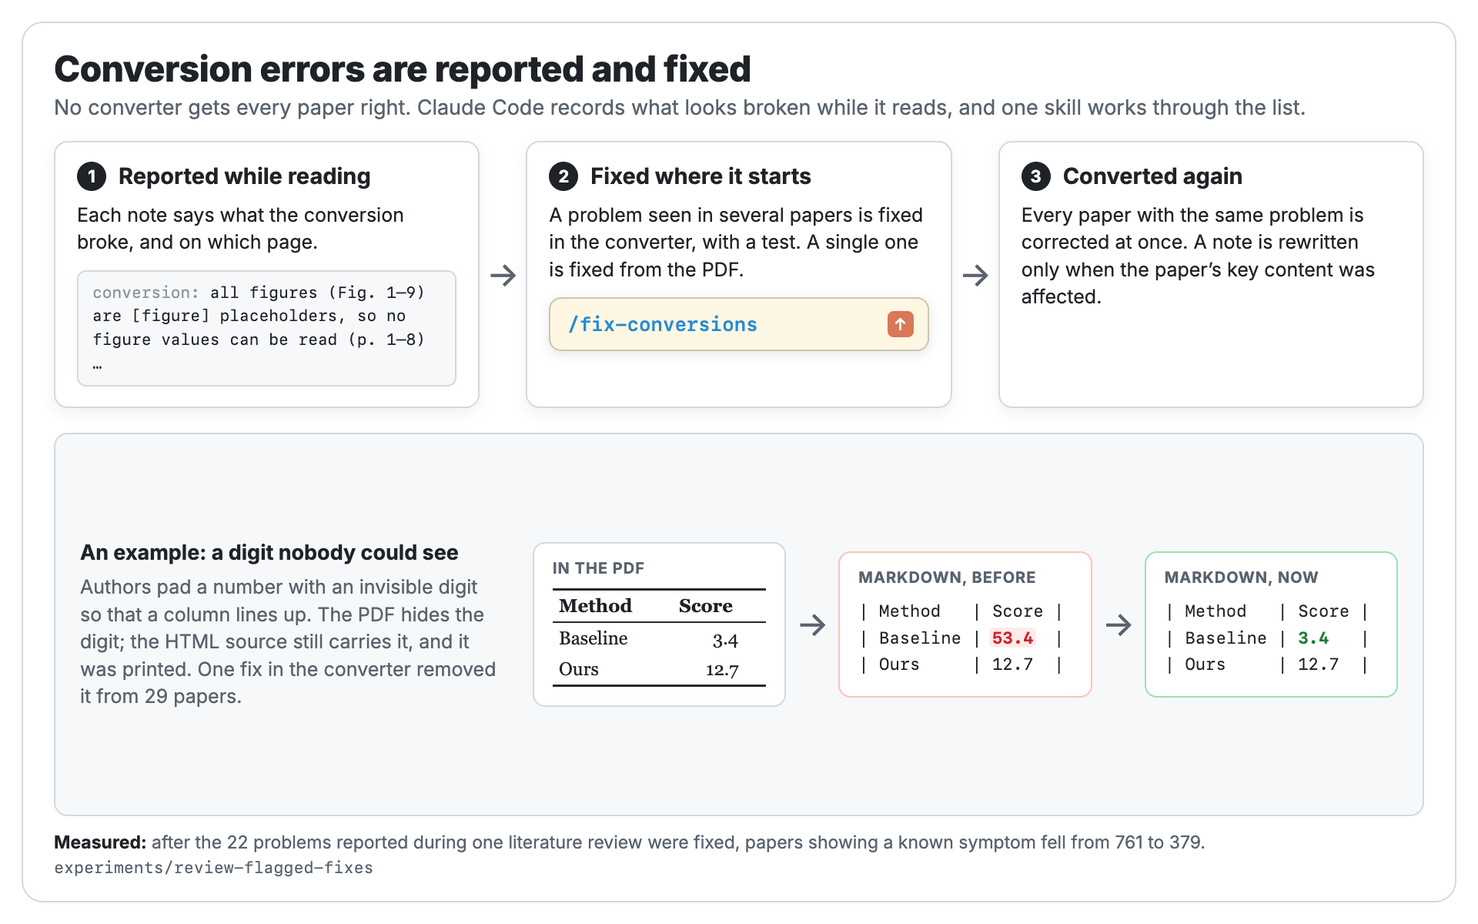
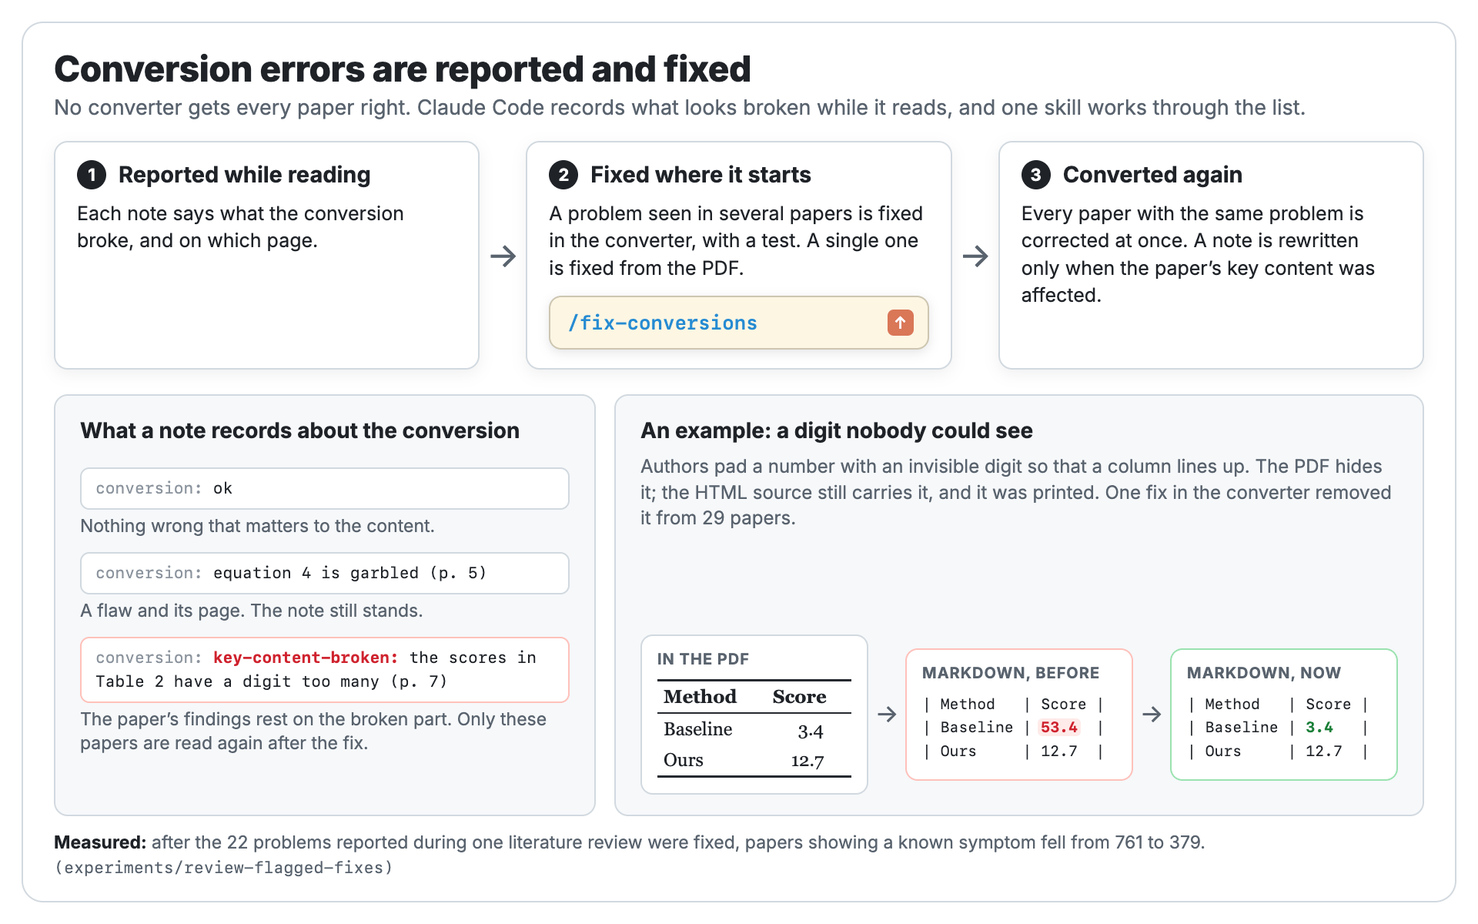
Redraw the README pictures around what the library does
- The first set led with experiments and internals; this one shows one function a picture, with a plain title, one sentence of why, and at most one measured line that names its experiment folder in brackets.
- Nine pictures: reading a paper in VS Code with Claude Code beside it, the Markdown conversion against the PDF and its extracted text, a quick look at a paper, adding a paper, the overview note, the literature review, finding missing papers and reorganising topics, fixing conversion errors, and six experiments as question, measurement and decision.
- The VS Code window is drawn after a screenshot of the example library, and the PDF content is real crops of the DPO paper (CC BY).
- paperlib info says what its numbers are: the arXiv date is labelled "submitted", citations read "N in total, N a year, N where the citing paper builds on this one", and a folder with one paper says "1 paper".
- README: "What the measurements ruled out" becomes "How it was designed", and the Skills table gains /paper-info.
- Some picture content is illustration and each HTML source says which: the overview note, the lists in the grow picture, the topic name in the review picture, two rows of the paper-info table, and the example conversion lines and extra table row in the fix-conversions picture.

diff --git a/assets/pictures/fix-conversions.html b/assets/pictures/fix-conversions.html
@@ -4,7 +4,8 @@
   and docs/design.md's decision of 2026-10-07. The conversion line is the opening of the one in
   Opus's note on the Gemma 3 Technical Report (experiments/reading-models/results/claude-opus-5-5/).
   The example and the line at the foot are experiments/review-flagged-fixes: a padding digit printed
-  in table cells of 29 papers (3.4 read as 53.4; the rest of the small table is an illustration), and papers showing a known symptom 761 to 379.
+  in table cells of 29 papers (3.4 read as 53.4; the rest of the small table is an illustration). The three conversion
+  lines in "What a note records" follow the form guide/reading-prompt.md asks for and are examples, and papers showing a known symptom 761 to 379.
   Render with assets/pictures/render.sh fix-conversions.
 -->
 <html lang="en">
@@ -16,22 +17,29 @@
 <style>
   .main { flex-direction: column; gap: 16px; }
   .steps { display: flex; align-items: stretch; flex: none; }
-  .step { flex: 1 1 0; min-width: 0; border: 1px solid var(--line); border-radius: 9px; background: #fff; padding: 12px 14px 13px; box-shadow: 0 3px 10px rgba(31, 35, 40, .07); }
+  .step { flex: 1 1 0; min-width: 0; border: 1px solid var(--line); border-radius: 9px; background: #fff; padding: 11px 14px 12px; box-shadow: 0 3px 10px rgba(31, 35, 40, .07); }
   .step .hd { display: flex; align-items: center; gap: 8px; font-weight: 700; font-size: 14.5px; margin-bottom: 6px; }
   .step p { font-size: 12.5px; line-height: 1.42; }
   .step .code, .step .ccin { margin-top: 9px; }
   .step .code { font-size: 10.3px; line-height: 1.5; white-space: normal; background: var(--panel); border: 1px solid var(--line); border-radius: 6px; padding: 6px 9px; }
   .step .code .k { color: var(--md-key); }
   .ar { width: 30px; flex: none; display: flex; align-items: center; justify-content: center; color: var(--muted); font-size: 22px; }
-  .case { flex: 1 1 auto; border: 1px solid var(--line); border-radius: 9px; background: var(--panel); padding: 12px 16px; display: flex; gap: 22px; align-items: center; }
-  .case .txt { width: 272px; flex: none; }
-  .case .txt b { font-size: 13.5px; white-space: nowrap; display: block; margin-bottom: 4px; }
-  .case .txt span { font-size: 12.5px; line-height: 1.42; color: var(--muted); }
-  .cells { flex: 1 1 0; display: flex; align-items: center; gap: 10px; }
-  .cell { flex: 1 1 0; background: #fff; border: 1px solid var(--line); border-radius: 8px; padding: 10px 12px 12px; min-width: 0; }
+  .low { flex: 1 1 auto; display: flex; gap: 12px; min-height: 0; }
+  .case { border: 1px solid var(--line); border-radius: 9px; background: var(--panel); padding: 13px 16px; display: flex; flex-direction: column; min-width: 0; }
+  .case.rec { width: 352px; flex: none; }
+  .case.ex { flex: 1 1 0; }
+  .ct { font-size: 14px; margin-bottom: 5px; }
+  .cs { font-size: 12px; line-height: 1.4; color: var(--muted); }
+  .kind { margin-top: 9px; }
+  .kind .code { font-size: 10.3px; line-height: 1.5; white-space: normal; background: #fff; border: 1px solid var(--line); border-radius: 6px; padding: 5px 9px; }
+  .kind .code .k { color: var(--md-key); }
+  .kind > span { display: block; font-size: 11.5px; line-height: 1.35; color: var(--muted); margin-top: 3px; }
+  .kind.key .code { border-color: #ffc1ba; } .kind.key .code b { color: var(--bad); }
+  .cells { display: flex; align-items: center; gap: 6px; margin-top: auto; padding-top: 10px; }
+  .cell { flex: 1 1 0; background: #fff; border: 1px solid var(--line); border-radius: 8px; padding: 9px 10px 10px; min-width: 0; }
   .cell .label { margin-bottom: 7px; }
   .cell.bad { border-color: #ffc1ba; } .cell.ok { border-color: var(--ok-line); }
-  .cell .code { font-size: 10.8px; line-height: 1.6; }
+  .cell .code { font-size: 9.6px; line-height: 1.6; }
   .cell .w { color: var(--bad); background: var(--bad-bg); border-radius: 3px; padding: 0 2px; margin: 0 -2px; }
   .cell .g { color: var(--ok); }
   .mini { border-collapse: collapse; font: 12px/1.5 Georgia, "Times New Roman", serif; border-top: 1.5px solid #24292f; border-bottom: 1.5px solid #24292f; width: 100%; }
@@ -51,7 +59,6 @@
       <div class="step">
         <div class="hd"><span class="n">1</span>Reported while reading</div>
         <p>Each note says what the conversion broke, and on which page.</p>
-        <div class="code"><span class="k">conversion:</span> all figures (Fig. 1–9) are [figure] placeholders, so no figure values can be read (p. 1–8) …</div>
       </div>
       <div class="ar">→</div>
       <div class="step">
@@ -66,26 +73,35 @@
       </div>
     </div>
 
-    <div class="case">
-      <div class="txt"><b>An example: a digit nobody could see</b><span>Authors pad a number with an invisible digit so that a column lines up. The PDF hides the digit; the HTML source still carries it, and it was printed. One fix in the converter removed it from 29 papers.</span></div>
-      <div class="cells">
-        <div class="cell"><div class="label">In the PDF</div>
-          <table class="mini"><tr><th>Method</th><th>Score</th></tr><tr><td>Baseline</td><td class="num">3.4</td></tr><tr><td>Ours</td><td class="num">12.7</td></tr></table></div>
-        <span class="ar" style="width: 14px">→</span>
-        <div class="cell bad"><div class="label">Markdown, before</div>
-          <div class="code">| Method   | Score |
+    <div class="low">
+      <div class="case rec">
+        <b class="ct">What a note records about the conversion</b>
+        <div class="kind"><div class="code"><span class="k">conversion:</span> ok</div><span>Nothing wrong that matters to the content.</span></div>
+        <div class="kind"><div class="code"><span class="k">conversion:</span> equation 4 is garbled (p. 5)</div><span>A flaw and its page. The note still stands.</span></div>
+        <div class="kind key"><div class="code"><span class="k">conversion:</span> <b>key-content-broken:</b> the scores in Table 2 have a digit too many (p. 7)</div><span>The paper’s findings rest on the broken part. Only these papers are read again after the fix.</span></div>
+      </div>
+      <div class="case ex">
+        <b class="ct">An example: a digit nobody could see</b>
+        <span class="cs">Authors pad a number with an invisible digit so that a column lines up. The PDF hides it; the HTML source still carries it, and it was printed. One fix in the converter removed it from 29 papers.</span>
+        <div class="cells">
+          <div class="cell"><div class="label">In the PDF</div>
+            <table class="mini"><tr><th>Method</th><th>Score</th></tr><tr><td>Baseline</td><td class="num">3.4</td></tr><tr><td>Ours</td><td class="num">12.7</td></tr></table></div>
+          <span class="ar" style="width: 12px; font-size: 16px">→</span>
+          <div class="cell bad"><div class="label">Markdown, before</div>
+            <div class="code">| Method   | Score |
 | Baseline | <b class="w">53.4</b>  |
 | Ours     | 12.7  |</div></div>
-        <span class="ar" style="width: 14px">→</span>
-        <div class="cell ok"><div class="label">Markdown, now</div>
-          <div class="code">| Method   | Score |
+          <span class="ar" style="width: 12px; font-size: 16px">→</span>
+          <div class="cell ok"><div class="label">Markdown, now</div>
+            <div class="code">| Method   | Score |
 | Baseline | <b class="g">3.4</b>   |
 | Ours     | 12.7  |</div></div>
+        </div>
       </div>
     </div>
   </div>
 
-  <div class="foot"><b>Measured:</b> after the 22 problems reported during one literature review were fixed, papers showing a known symptom fell from 761 to 379. <span class="exp">experiments/review-flagged-fixes</span></div>
+  <div class="foot"><b>Measured:</b> after the 22 problems reported during one literature review were fixed, papers showing a known symptom fell from 761 to 379. <span class="exp">(experiments/review-flagged-fixes)</span></div>
 </div>
 </body>
 </html>

diff --git a/assets/pictures/paper-info.html b/assets/pictures/paper-info.html
@@ -3,7 +3,9 @@
   Source of assets/pictures/paper-info.png. The table is the output of `paperlib info 2405.14734`
   run in examples/library on 10 Oct 2026 (SimPO, not in the library; its nearest paper there is DPO),
   with the Authors, Comment, h-index, Type and Releases rows left out and Proposes, Evidence and
-  Nearest cut to their first sentences. The line at the foot is experiments/paper-vetting: Sonnet
+  Nearest cut to their first sentences. Two rows are changed to read as a larger library would: the
+  example library has one paper in the folder and none that names SimPO, and the picture shows 12
+  and "4 library papers, 2 notes or reviews". The line at the foot is experiments/paper-vetting: Sonnet
   would add 22 of the 30 papers the reader skipped and 28 of the 42 kept.
   Render with assets/pictures/render.sh paper-info.
 -->
@@ -54,12 +56,12 @@
         <table class="info">
           <tr><td>Paper</td><td class="t">SimPO: Simple Preference Optimization with a Reference-Free Reward</td></tr>
           <tr><td>Status</td><td class="st">not in library</td></tr>
-          <tr><td>arXiv</td><td>2405.14734, 2024-05-23 <i>(2.4 years old)</i></td></tr>
+          <tr><td>arXiv</td><td>2405.14734, submitted 2024-05-23 <i>(2.4 years old)</i></td></tr>
           <tr><td>Venue</td><td>Neural Information Processing Systems</td></tr>
-          <tr><td>Citations</td><td>1207, 502.9 a year, 243 influential</td></tr>
+          <tr><td>Citations</td><td>1207 in total, 502.9 a year, 243 where the citing paper builds on this one</td></tr>
           <tr><td>Uptake</td><td>very high</td></tr>
-          <tr><td>Named by</td><td>0 library papers, 0 notes or reviews</td></tr>
-          <tr><td>Folder</td><td>llm/post-training/preference-learning <i>(1 papers)</i></td></tr>
+          <tr><td>Named by</td><td>4 library papers, 2 notes or reviews</td></tr>
+          <tr><td>Folder</td><td>llm/post-training/preference-learning <i>(12 papers)</i></td></tr>
           <tr><td>Proposes</td><td>SimPO is an offline preference-optimization method that uses the length-averaged log probability of a response as its implicit reward, so no reference model is needed. <i>…</i></td></tr>
           <tr><td>Evidence</td><td>Compared with DPO and its recent variants on Mistral, Llama 3 and Gemma 2 models (base and instruction-tuned), evaluated on AlpacaEval 2, MT-Bench and Arena-Hard. <i>…</i></td></tr>
           <tr><td>Nearest</td><td><a>Direct Preference Optimization: Your Language Model is Secretly a Reward Model</a> [alternative]: SimPO replaces DPO’s reference-model log-ratio reward with a length-normalized average log probability and adds a target margin, so it needs no reference model. <i>…</i></td></tr>
@@ -68,7 +70,7 @@
     </div>
   </div>
 
-  <div class="foot"><b>Measured on 72 papers:</b> a model’s advice to add or skip did not match what the reader had decided, so the command gives none. <span class="exp">experiments/paper-vetting</span></div>
+  <div class="foot"><b>Measured on 72 papers:</b> a model’s advice to add or skip did not match what the reader had decided, so the command gives none. <span class="exp">(experiments/paper-vetting)</span></div>
 </div>
 </body>
 </html>

diff --git a/assets/pictures/reading.html b/assets/pictures/reading.html
@@ -4,7 +4,7 @@
   screenshot of examples/library in Solarized Light, with fewer rows and larger text; the chat is
   that session's question and the opening of its answer, shortened. The folders and files in the explorer are those of examples/library; the page is
   a crop of page 9 of the DPO paper's PDF (arXiv 2305.18290, CC BY 4.0; img/dpo-page9.png); the Markdown lines are the same section in
-  examples/library, the table's row joined on one line. The count of experiments is the number of
+  examples/library, one row of the table joined on one line, the others elided. The count of experiments is the number of
   rows in experiments/README.md. Render with assets/pictures/render.sh reading.
 -->
 <html lang="en">
@@ -92,7 +92,7 @@
     <div class="box md">
       <div class="label">What Claude Code reads: the same section as Markdown</div>
       <div class="code"><span class="h">### 6.3 Generalization to a new input distribution</span> <span class="pg">(p. 9)</span>
-<span class="dim">&lt;tr&gt; &lt;th&gt;</span>DPO<span class="dim">&lt;/th&gt; &lt;td&gt;</span>0.36<span class="dim">&lt;/td&gt; &lt;td&gt;</span>0.31<span class="dim">&lt;/td&gt; &lt;/tr&gt;</span>
+<span class="dim">&lt;table&gt; … &lt;tr&gt; &lt;th&gt;</span>DPO<span class="dim">&lt;/th&gt; &lt;td&gt;</span>0.36<span class="dim">&lt;/td&gt; &lt;td&gt;</span>0.31<span class="dim">&lt;/td&gt; &lt;/tr&gt; … &lt;/table&gt;</span>
 Table 1: GPT-4 win rates vs. ground truth summaries for …
 To further compare the performance of PPO and DPO under …</div>
     </div>
@@ -109,7 +109,7 @@ To further compare the performance of PPO and DPO under …</div>
     </div>
   </div>
 
-  <div class="foot">Design choices were measured in <b>22 experiments</b>, kept in the repository with their scripts and results. <span class="exp">experiments/</span></div>
+  <div class="foot">Design choices were measured in <b>22 experiments</b>, kept in the repository with their scripts and results. <span class="exp">(experiments/)</span></div>
 </div>
 </body>
 </html>

diff --git a/assets/pictures/markdown.html b/assets/pictures/markdown.html
@@ -75,7 +75,7 @@ Table 1: GPT-4 win rates vs. ground truth summaries …</div>
       <div class="say">A table. The heading has the PDF page, so an answer can link to it.</div></div>
   </div>
 
-  <div class="foot" style="margin-top:auto">Made from arXiv’s HTML where a paper has one, otherwise from the PDF with a layout model and an equation model. <b>Measured: 99.99% of 489,000 equations in 2,200 papers parse as LaTeX.</b> <span class="exp">experiments/pdf-vs-arxiv-html · katex-equation-check · pdf-converter-bakeoff</span></div>
+  <div class="foot" style="margin-top:auto">Made from arXiv’s HTML where a paper has one, otherwise from the PDF with a layout model and an equation model. <b>Measured: 99.99% of 489,000 equations in 2,200 papers parse as LaTeX.</b> <span class="exp">(experiments/pdf-vs-arxiv-html, katex-equation-check, pdf-converter-bakeoff)</span></div>
 </div>
 </body>
 </html>

diff --git a/assets/pictures/overview.html b/assets/pictures/overview.html
@@ -12,7 +12,7 @@
 <title>Overview before reading</title>
 <link rel="stylesheet" href="style.css">
 <style>
-  .l { width: 300px; flex: none; }
+  .l { width: 300px; flex: none; display: flex; flex-direction: column; }
   .ccin { font-size: 10.5px; }
   .paper { font-size: 12px; }
   .r { flex: 1 1 0; display: flex; flex-direction: column; }
@@ -21,7 +21,7 @@
   .pt b { font-weight: 650; }
   .ccin { margin-bottom: 4px; }
   .r .paper { flex: 1 1 auto; }
-  .paper.end { margin-top: 10px; font-size: 11px; line-height: 1.38; padding: 4px 13px 10px; }
+  .paper.end { margin-top: 10px; flex: 1 1 auto; font-size: 11px; line-height: 1.38; padding: 4px 13px 10px; }
   .paper.end ul { margin-left: 15px; }
   .paper.end li + li { margin-top: 2px; }
   .fname { font: 10px var(--mono); color: var(--muted); margin-bottom: 7px; white-space: nowrap; }

diff --git a/assets/pictures/experiments.html b/assets/pictures/experiments.html
@@ -57,7 +57,7 @@
     <div class="d">The review guides the search; the answer is checked in the paper</div>
   </div>
 
-  <div class="foot"><b>22 experiments</b> are in the repository under <span class="exp" style="font-size: 11px">experiments/</span>, each with its method, scripts and results. Used by the author on a library of about 2,200 papers.</div>
+  <div class="foot"><b>22 experiments</b> are in the repository (<span class="exp" style="font-size: 11px">experiments/</span>), each with its method, scripts and results. Used by the author on a library of about 2,200 papers.</div>
 </div>
 </body>
 </html>

diff --git a/assets/pictures/add-paper.html b/assets/pictures/add-paper.html
@@ -84,7 +84,7 @@
     </div>
   </div>
 
-  <div class="foot"><b>Measured on 60 papers:</b> a blind judge graded the chosen folder the best one for 53. Choosing it takes one request of about 4 seconds. <span class="exp">experiments/skill-models</span></div>
+  <div class="foot"><b>Measured on 60 papers:</b> a blind judge graded the chosen folder the best one for 53. Choosing it takes one request of about 4 seconds. <span class="exp">(experiments/skill-models)</span></div>
 </div>
 </body>
 </html>

diff --git a/assets/pictures/literature-review.html b/assets/pictures/literature-review.html
@@ -88,7 +88,7 @@
     </div>
   </div>
 
-  <div class="foot"><b>Measured on six papers:</b> of five models compared as readers, the one used made 1 error in its notes; the cheapest made 35. <span class="exp">experiments/reading-models</span></div>
+  <div class="foot"><b>Measured on six papers:</b> of five models compared as readers, the one used made 1 error in its notes; the cheapest made 35. <span class="exp">(experiments/reading-models)</span></div>
 </div>
 </body>
 </html>

diff --git a/scripts/paper-info.py b/scripts/paper-info.py
@@ -175,22 +175,23 @@ def table(info):
     add = lambda name, value: rows.append((name, str(value))) if value not in (None, "", []) else None
     if info["status"] == "in library":
         add("Status", "in library")
-        add("arXiv", f"{info['arxiv']}, {info['published']}" if info["arxiv"] else info["published"])
+        add("arXiv", f"{info['arxiv']}, submitted {info['published']}" if info["arxiv"] else info["published"])
         for name in ("paper", "note", "overview", "review", "type", "summary"):
             add(name.capitalize(), info[name])
     elif info["status"] == "skipped":
         add("Status", f"skipped earlier ({info['skipped']['date']}): {info['skipped']['reason']}")
-        add("arXiv", f"{info['arxiv']}, {info['published']}")
+        add("arXiv", f"{info['arxiv']}, submitted {info['published']}")
     else:
         age = f"{info['age_years']} years" if info["age_years"] >= 1 else f"{round(info['age_years'] * 12)} months"
         add("Status", "not in library" + (f"; looked at {info['looked']}" if info.get("looked") else ""))
-        add("arXiv", f"{info['arxiv']}, {info['published']} ({age} old)")
+        add("arXiv", f"{info['arxiv']}, submitted {info['published']} ({age} old)")
         add("Authors", ", ".join(info["authors"][:6]) + (" and others" if len(info["authors"]) > 6 else ""))
         add("Venue", info["venue"] or ("arXiv only" if info["citations"] is not None else None))
         add("Comment", info["comment"])
         if info["citations"] is not None:
             rate = f", {info['citations_per_year']:g} a year" if info["citations_per_year"] is not None else ""
-            add("Citations", f"{info['citations']}{rate}, {info['influential_citations']} influential")
+            add("Citations", f"{info['citations']} in total{rate}, "
+                f"{info['influential_citations']} where the citing paper builds on this one")
         add("Uptake", info["uptake"])
         add("h-index", ", ".join(map(str, info["authors_h_index"][:6])))
         named = info["named_in_library"]
@@ -198,7 +199,7 @@ def table(info):
         add("Named by", f"{named['papers']} library papers, {named['notes_and_reviews']} notes or reviews"
             + (f": {names}" if names else ""))
         if "proposes" in info:
-            add("Folder", f"{info['folder']} ({info['folder_papers']} papers)" if info["folder"] else "no declared folder fits")
+            add("Folder", f"{info['folder']} ({info['folder_papers']} paper{'' if info['folder_papers'] == 1 else 's'})" if info["folder"] else "no declared folder fits")
             add("Type", ", ".join(filter(None, [info["type"], info["character"]])))
             add("Proposes", info["proposes"])
             add("Evidence", info["evidence"])

diff --git a/README.md b/README.md
@@ -46,7 +46,7 @@ Open the library in VS Code with the PDF on one side and Claude Code on the othe
 | `/reorganize` | Proposes moves, splits and merges of topic folders as the library grows, and carries out the ones you approve. |
 | `/paper-info` | A quick look at a paper before you add it: where it was published, how often it is cited, which papers in the library mention it and which are nearest. It reports and does not recommend. |
 
-![A quick look at a paper. In Claude Code, /paper-info 2405.14734; or in a terminal, paperlib info 2405.14734. For SimPO, which is not in the library, the report gives its arXiv date, venue, citations (1207, 502.9 a year), uptake, how many library papers name it, the folder it would go to, what it proposes, its evidence, and the nearest library paper, DPO, with how the two differ. It reads the abstract and public records, not the paper, and gives no verdict. Measured on 72 papers: a model's advice to add or skip did not match what the reader had decided, so the command gives none.](assets/pictures/paper-info.png)
+![A quick look at a paper. In Claude Code, /paper-info 2405.14734; or in a terminal, paperlib info 2405.14734. For SimPO, which is not in the library, the report gives when it was submitted to arXiv, its venue, citations (1207 in total, 502.9 a year, 243 where the citing paper builds on it), uptake, how many library papers and notes name it, the folder it would go to, what it proposes, its evidence, and the nearest library paper, DPO, with how the two differ. It reads the abstract and public records, not the paper, and gives no verdict. Measured on 72 papers: a model's advice to add or skip did not match what the reader had decided, so the command gives none.](assets/pictures/paper-info.png)
 
 ![Add a paper. In Claude Code, /add-paper 2305.18290; or in a terminal, paperlib add 2305.18290. The topic is chosen from your topics, each a folder with a scope: here llm/post-training/preference-learning. Three things are added: the PDF for you to read, the paper as Markdown for Claude Code to read, and a line in the topic's index with a one-sentence summary. Measured on 60 papers: a blind judge graded the chosen folder the best one for 53, and choosing it takes one request of about 4 seconds.](assets/pictures/add-paper.png)
 
@@ -56,7 +56,7 @@ Open the library in VS Code with the PDF on one side and Claude Code on the othe
 
 ![Find missing papers, reorganise topics. /expand-library on a topic proposes a numbered reading list with a reason for each paper; you strike what you don't want and the rest are added, and a struck paper is not proposed again. /reorganize on a topic proposes splits, merges and moves with reasons; here one folder is split into three subfolders, and each paper moves with its PDF, Markdown and figures. Both propose first and change nothing until you choose.](assets/pictures/grow.png)
 
-![Conversion errors are reported and fixed, in three steps. Reported while reading: each note says what the conversion broke and on which page. Fixed where it starts: /fix-conversions fixes a problem seen in several papers in the converter, with a test, and a single one from the PDF. Converted again: every paper with the same problem is corrected at once. An example: authors pad a number with an invisible digit so that a column lines up, so a table cell that reads 3.4 in the PDF was 53.4 in the Markdown and is 3.4 now; one fix removed the digit from 29 papers. Measured: after the 22 problems reported during one literature review were fixed, papers showing a known symptom fell from 761 to 379.](assets/pictures/fix-conversions.png)
+![Conversion errors are reported and fixed, in three steps. Reported while reading: each note says what the conversion broke and on which page. Fixed where it starts: /fix-conversions fixes a problem seen in several papers in the converter, with a test, and a single one from the PDF. Converted again: every paper with the same problem is corrected at once. A note records the conversion in one of three ways: ok; a flaw with its page; or key-content-broken, when the paper's findings rest on the broken part, and only those papers are read again after the fix. An example: authors pad a number with an invisible digit so that a column lines up, so a table cell that reads 3.4 in the PDF was 53.4 in the Markdown and is 3.4 now; one fix removed the digit from 29 papers. Measured: after the 22 problems reported during one literature review were fixed, papers showing a known symptom fell from 761 to 379.](assets/pictures/fix-conversions.png)
 
 ### Which model
 
